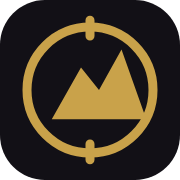
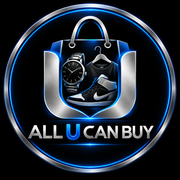
Rebranding a "All U Can Buy"
Cambio de identidad completo en las dos páginas:
- Nuevo logo (la insignia circular azul/plateada) reemplaza el ícono
  de montaña en el header, el pie de página y la pantalla de acceso
  del panel, además de favicon, ícono de iOS y los íconos de la PWA.
- Nombre del negocio actualizado de "Altitude Watch Co." a
  "All U Can Buy" en el título de cada página, las etiquetas de
  redes/WhatsApp, el manifest y el mensaje de la pantalla de acceso.
- Paleta de colores global (variables CSS en :root, que ambas páginas
  comparten) pasada de dorado cálido a un azul vívido sobre negro
  frío, a tono con el logo -- botones, precios, chips activos,
  selección de texto, el resaltado del historial de cliente y la
  barra de "Venta" en las gráficas del panel.
- El verde de WhatsApp y los colores semánticos de estado (Pendiente,
  Confirmado, etc.) se dejaron intactos a propósito, igual que las
  claves internas de localStorage y el código de acceso -- cambiarlos
  hubiera afectado datos ya guardados o el acceso al panel.

Claude-Session: https://claude.ai/code/session_01PwFmcG1HRNCrwrPTdGp34T

diff --git a/index.html b/index.html
@@ -3,20 +3,20 @@
 <head>
   <meta charset="UTF-8" />
   <meta name="viewport" content="width=device-width, initial-scale=1.0" />
-  <title>Altitude Watch Co. — Catálogo de relojes</title>
+  <title>All U Can Buy — Catálogo de relojes</title>
   <meta name="description" content="Catálogo de relojes con entrega en Bogotá y envíos a toda Colombia. Pide tu reloj directo por WhatsApp." />
   <meta property="og:type" content="website" />
-  <meta property="og:title" content="Altitude Watch Co. — Catálogo de relojes" />
-  <meta property="og:description" content="Relojes con altura. Entrega en Bogotá y envíos a toda Colombia. Pide el tuyo directo por WhatsApp." />
+  <meta property="og:title" content="All U Can Buy — Catálogo de relojes" />
+  <meta property="og:description" content="Relojes para cada estilo. Entrega en Bogotá y envíos a toda Colombia. Pide el tuyo directo por WhatsApp." />
   <meta property="og:image" content="https://tomascristancho-mvp.github.io/relojesaaa/images/watches/reloj-01.jpg" />
   <meta property="og:url" content="https://tomascristancho-mvp.github.io/relojesaaa/" />
   <meta name="twitter:card" content="summary_large_image" />
-  <meta name="twitter:title" content="Altitude Watch Co. — Catálogo de relojes" />
-  <meta name="twitter:description" content="Relojes con altura. Entrega en Bogotá y envíos a toda Colombia. Pide el tuyo directo por WhatsApp." />
+  <meta name="twitter:title" content="All U Can Buy — Catálogo de relojes" />
+  <meta name="twitter:description" content="Relojes para cada estilo. Entrega en Bogotá y envíos a toda Colombia. Pide el tuyo directo por WhatsApp." />
   <meta name="twitter:image" content="https://tomascristancho-mvp.github.io/relojesaaa/images/watches/reloj-01.jpg" />
   <link rel="canonical" href="https://tomascristancho-mvp.github.io/relojesaaa/" />
-  <meta name="theme-color" content="#121016" />
-  <link rel="icon" type="image/svg+xml" href="favicon.svg" />
+  <meta name="theme-color" content="#0a0d12" />
+  <link rel="icon" type="image/png" href="favicon.png" />
   <link rel="apple-touch-icon" href="apple-touch-icon.png" />
   <link rel="manifest" href="manifest.json" />
   <link rel="preconnect" href="https://fonts.googleapis.com" />
@@ -35,11 +35,7 @@
           <span id="cart-count" class="cart-toggle__badge" hidden>0</span>
         </button>
         <a href="#top" class="brand">
-          <svg class="brand__icon" viewBox="0 0 40 40" fill="none" xmlns="http://www.w3.org/2000/svg" aria-hidden="true">
-            <circle cx="20" cy="20" r="15" stroke="currentColor" stroke-width="2"/>
-            <path d="M20 4v4M20 32v4" stroke="currentColor" stroke-width="2" stroke-linecap="round"/>
-            <path d="M11 27 L18 15 L22 20 L27 11 L33 27 Z" fill="currentColor"/>
-          </svg>
+          <img class="brand__icon" src="images/logo.png" alt="" />
           <span class="brand__name" data-business-name>Tu Marca de Relojes</span>
         </a>
       </div>

diff --git a/admin.html b/admin.html
@@ -3,9 +3,9 @@
 <head>
   <meta charset="UTF-8" />
   <meta name="viewport" content="width=device-width, initial-scale=1.0" />
-  <title>Panel privado — Altitude Watch Co.</title>
+  <title>Panel privado — All U Can Buy</title>
   <meta name="robots" content="noindex, nofollow" />
-  <link rel="icon" type="image/svg+xml" href="favicon.svg" />
+  <link rel="icon" type="image/png" href="favicon.png" />
   <link href="https://fonts.googleapis.com/css2?family=Fraunces:opsz,wght@9..144,500;9..144,600&family=Inter:wght@400;500;600;700&display=swap" rel="stylesheet" />
   <link rel="stylesheet" href="css/styles.css" />
   <link rel="stylesheet" href="css/admin.css" />
@@ -13,13 +13,9 @@
 <body>
   <div id="lock-screen" class="lock-screen">
     <form id="lock-form" class="lock-card">
-      <svg class="brand__icon lock-card__icon" viewBox="0 0 40 40" fill="none" xmlns="http://www.w3.org/2000/svg" aria-hidden="true">
-        <circle cx="20" cy="20" r="15" stroke="currentColor" stroke-width="2"/>
-        <path d="M20 4v4M20 32v4" stroke="currentColor" stroke-width="2" stroke-linecap="round"/>
-        <path d="M11 27 L18 15 L22 20 L27 11 L33 27 Z" fill="currentColor"/>
-      </svg>
+      <img class="brand__icon lock-card__icon" src="images/logo.png" alt="" />
       <h1>Panel privado</h1>
-      <p>Solo para uso interno de Altitude Watch Co.</p>
+      <p>Solo para uso interno de All U Can Buy.</p>
       <input type="password" id="lock-input" placeholder="Código de acceso" autocomplete="off" />
       <button type="submit" class="btn btn--primary">Entrar</button>
       <p id="lock-error" class="lock-error" hidden>Código incorrecto.</p>
@@ -35,11 +31,7 @@
     <header class="site-header admin-header">
       <div class="container site-header__inner">
         <a href="index.html" class="brand">
-          <svg class="brand__icon" viewBox="0 0 40 40" fill="none" xmlns="http://www.w3.org/2000/svg" aria-hidden="true">
-            <circle cx="20" cy="20" r="15" stroke="currentColor" stroke-width="2"/>
-            <path d="M20 4v4M20 32v4" stroke="currentColor" stroke-width="2" stroke-linecap="round"/>
-            <path d="M11 27 L18 15 L22 20 L27 11 L33 27 Z" fill="currentColor"/>
-          </svg>
+          <img class="brand__icon" src="images/logo.png" alt="" />
           <span class="brand__name">Panel privado</span>
         </a>
         <button id="logout-btn" class="btn btn--ghost btn--small" type="button">Cerrar sesión</button>

diff --git a/css/styles.css b/css/styles.css
@@ -1,13 +1,14 @@
 /* ============ VARIABLES ============ */
 :root {
-  --bg: #121016;
-  --bg-elevated: #19161d;
-  --bg-card: #1e1a22;
-  --border: #2c2731;
-  --text: #f3efe8;
-  --text-muted: #a79f9a;
-  --accent: #c9a24a;
-  --accent-soft: #e6cf94;
+  --bg: #0a0d12;
+  --bg-elevated: #10141b;
+  --bg-card: #141920;
+  --border: #262c36;
+  --text: #f2f4f7;
+  --text-muted: #98a2b0;
+  --accent: #2f8fff;
+  --accent-soft: #8cc2ff;
+  --accent-contrast: #f5f9ff;
   --whatsapp: #2fae6b;
   --whatsapp-hover: #269459;
   --radius: 14px;
@@ -63,7 +64,7 @@ img {
 }
 
 ::selection {
-  background: rgba(201, 162, 74, 0.35);
+  background: rgba(47, 143, 255, 0.35);
   color: var(--text);
 }
 
@@ -167,7 +168,7 @@ section[id] {
 
 .btn--primary {
   background: var(--accent);
-  color: #1a1508;
+  color: var(--accent-contrast);
 }
 
 .btn--primary:hover {
@@ -216,7 +217,7 @@ section[id] {
 .btn--cart.is-active {
   background: var(--accent);
   border-color: var(--accent);
-  color: #1a1508;
+  color: var(--accent-contrast);
   font-weight: 600;
 }
 
@@ -298,7 +299,7 @@ section[id] {
   padding: 0 4px;
   border-radius: 999px;
   background: var(--accent);
-  color: #1a1508;
+  color: var(--accent-contrast);
   font-size: 0.68rem;
   font-weight: 700;
   line-height: 1;
@@ -312,9 +313,11 @@ section[id] {
 }
 
 .brand__icon {
-  width: 26px;
-  height: 26px;
-  color: var(--accent);
+  width: 34px;
+  height: 34px;
+  border-radius: 50%;
+  object-fit: cover;
+  flex-shrink: 0;
 }
 
 .brand__name {
@@ -427,7 +430,7 @@ section[id] {
   transform: translateX(-50%);
   width: 640px;
   height: 420px;
-  background: radial-gradient(closest-side, rgba(201, 162, 74, 0.16), transparent 70%);
+  background: radial-gradient(closest-side, rgba(47, 143, 255, 0.18), transparent 70%);
   pointer-events: none;
 }
 
@@ -607,7 +610,7 @@ section[id] {
 .chip--active {
   background: var(--accent);
   border-color: var(--accent);
-  color: #1a1508;
+  color: var(--accent-contrast);
   font-weight: 600;
 }
 
@@ -1526,7 +1529,7 @@ section[id] {
 
 .compare-tray__open {
   background: var(--accent);
-  color: #1a1508;
+  color: var(--accent-contrast);
   border: none;
   border-radius: 999px;
   padding: 9px 16px;

diff --git a/js/data.js b/js/data.js
@@ -4,10 +4,10 @@
  */
 const CONFIG = {
   // Nombre de tu marca (aparece en el logo, el título de la pestaña y los mensajes de WhatsApp)
-  businessName: "Altitude Watch Co.",
+  businessName: "All U Can Buy",
 
   // Frase corta que describe el negocio (aparece debajo del logo)
-  tagline: "Relojes con altura.",
+  tagline: "Relojes para cada estilo.",
 
   // Tu número de WhatsApp en formato internacional SIN signos ni espacios.
   whatsappNumber: "573027167144",

diff --git a/js/admin-csv.js b/js/admin-csv.js
@@ -186,7 +186,7 @@ function initCsvActions() {
     const a = document.createElement("a");
     const today = new Date().toISOString().slice(0, 10);
     a.href = url;
-    a.download = `pedidos-altitude-watch-co-${today}.csv`;
+    a.download = `pedidos-all-u-can-buy-${today}.csv`;
     a.click();
     URL.revokeObjectURL(url);
     showToast(`CSV descargado (${orders.length} pedido${orders.length === 1 ? "" : "s"}) ✓`);

diff --git a/css/admin.css b/css/admin.css
@@ -26,9 +26,10 @@
 }
 
 .lock-card__icon {
-  width: 40px;
-  height: 40px;
-  color: var(--accent);
+  width: 64px;
+  height: 64px;
+  border-radius: 50%;
+  object-fit: cover;
 }
 
 .lock-card h1 {
@@ -466,7 +467,7 @@
 
 .sale-row--current {
   border-color: var(--accent);
-  background: rgba(201, 162, 74, 0.08);
+  background: rgba(47, 143, 255, 0.08);
 }
 
 .sale-row__img {

diff --git a/js/admin-charts.js b/js/admin-charts.js
@@ -13,7 +13,7 @@ const CHART_STATUS_COLORS = {
   Entregado: "#4fd18b",
   Cancelado: "#e5876c",
 };
-const CHART_COLOR_VENTA = "#c9a24a";
+const CHART_COLOR_VENTA = "#2f8fff";
 const CHART_COLOR_GANANCIA = "#4fd18b";
 
 function svgEl(tag, attrs) {
